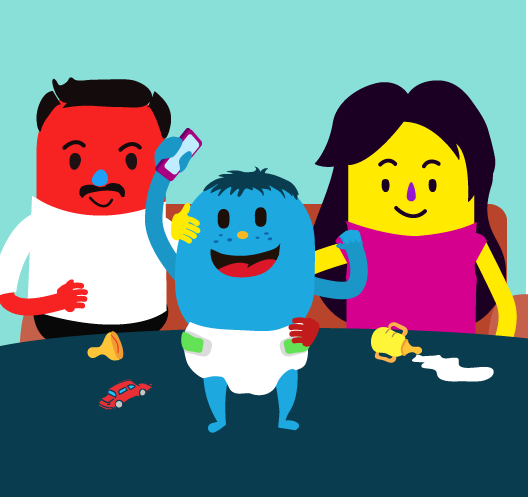
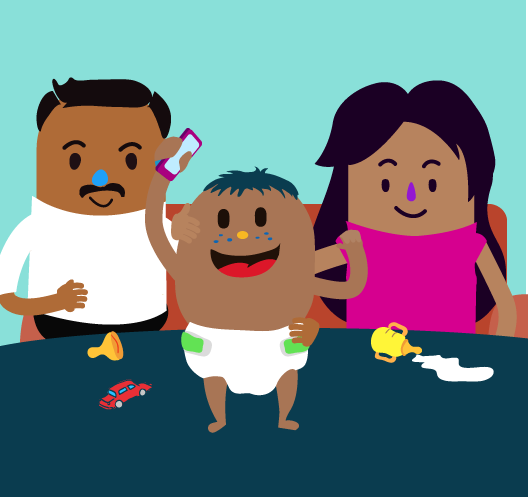
Correo Ajustes Familias RD

diff --git a/familias/css/mod1.css b/familias/css/mod1.css
@@ -254,9 +254,13 @@ margin-top: 0%;
     font-size: 1.15em;
     cursor: pointer;
 }
+#eva_09p2 .answer.img-answer p,.page-9-eva .answer.img-answer p {
+    min-height: 169px !important;
+}
 #eva .answer.img-answer p{
     min-height: 326px;
 }
+
 
 #eva .answer p img{
     display: block;

diff --git a/familias/mod_1/1-05_2_sld.php b/familias/mod_1/1-05_2_sld.php
@@ -285,7 +285,7 @@
                                     <li>Almacenar tus cosas privadas con protección de contraseña o en carpetas ocultas, así nadie más podrá verlos.</li>
                                     <li>Recordar que si alguien publica algo tuyo sin tu autorización, todas las redes sociales tienen la opción de denunciar la publicación y pedir que la retiren.</li>
                                     <!-- <li><a href="/familias/mod_3/3-07_inf.php">Denunciar.</a></li>  -->
-                                    <li><a href="#">Denunciar.</a></li> 
+                                    <li><a href="/familias/mod_3/3-07_inf.php">Denunciar.</a></li> 
                                 </ul>
 
                             </div>
@@ -316,16 +316,16 @@
                                 <p><strong>¿Qué haría una familia e-mentora?</strong><br>
                                 </p>
                                 <ul>
-                                    <li>Tener cuidado. No todo lo que ves en la web es cierto, recordá que muchas personas crean perfiles falsos.</li>
-                                    <li>Cuidar la información personal, no coloqués teléfono, dirección o el nombre del centro de estudios en tus perfiles. Sobre todo, si agregás personas desconocidas.</li>
+                                    <li>Tener cuidado. No todo lo que ves en la web es cierto, recuerda que muchas personas crean perfiles falsos.</li>
+                                    <li>Cuidar la información personal, no coloque teléfono, dirección o el nombre del centro de estudios en tus perfiles. Sobre todo, si agrega personas desconocidas.</li>
                                     <li>Recordar que si nunca has visto a un contacto que agregaste en redes sociales, no puedes tener la seguridad de que es una persona real.</li>
-                                    <li>No enviar información íntima (fotos o videos) a personas desconocidas en la Internet o redes sociales.</li>
-                                    <li>Tener presente que lo que públicas o envías, una vez que sale de tu teléfono, no está más en tu control.</li>
+                                    <li>No enviar información íntima (fotos o videos) a personas desconocidas en Internet o redes sociales.</li>
+                                    <li>Tener presente que lo que publicas o envías, una vez que sale de tu teléfono, no está más en tu control.</li>
                                     <li>Ojo: si decidiste ir a ver en persona al contacto que conociste por Internet.</li>
                                     <ul>
                                         <li>1. Si te pide que se vean en secreto, ¡encender las alertas! </li>
                                         <li>2. Procurar ir en compañía o contarle a alguien de confianza.</li>
-                                        <li>3. Agendar verse en un lugar público donde podás pedir ayuda si pasa algo.</li>
+                                        <li>3. Agendar verse en un lugar publico donde pueda pedir ayuda si pasa algo.</li>
                                     </ul>
                                 </ul>
 
@@ -389,8 +389,8 @@
                                     <ul>
                                         <li>Instala antivirus en tus dispositivos</li>
                                         <li>Aprende a reconocer sitios inseguros.</li>
-                                        <li>No confies en correos extraños, premios sorpresa al ingresar a páginas web.</li>
-                                        <li>Descarga apps solo de sitios oficiales. Asegúrate de que las aplicaciones que instalás son seguras ( Por ejemplo, leer comentarios de otras personas que las instalaron)</li>
+                                        <li>No confíe en correos extraños, premios sorpresa al ingresar a páginas web.</li>
+                                        <li>Descarga apps solo de sitios oficiales. Asegúrate de que las aplicaciones que instala son seguras ( Por ejemplo, leer comentarios de otras personas que las instalaron)</li>
                                     </ul>
                                     <li>Si crees que has sido víctima de una estafa o de un intento de estafa, denunciar ante las autoridades.</li>
                                 </ul>
@@ -452,7 +452,7 @@
                                 </p>
                                 <ul>
                                     <li>Recordar que por ser una persona menor de edad, siempre se tiene el derecho de contar con una protección especial en casos de abuso sexual.</li>
-                                    <li>Cuidar lo que públicas en internet o en redes.</li>
+                                    <li>Cuidar lo que publicas en internet o en redes.</li>
                                     <li>No te sumes: no difundas este tipo de contenidos.</li>
                                     <li>Recordar que las redes sociales no son un concurso de popularidad: Cuida a quien agregas en tus contactos.</li>
                                     <li>Reportar en cualquier red social para que se retire este tipo de material, y también denunciar ante las autoridades.</li>
@@ -518,7 +518,7 @@
                                 <p><strong>¿Qué haría una familia e-mentora?</strong><br></p>
                                 <ul>
                                     <li>Tener presente que todas las personas tenemos derecho a la privacidad de nuestros datos al usar internet y redes sociales. Se cuenta con leyes que nos protegen de los delitos informáticos. ¡Especialmente las niñas, niños y adolescentes!</li>
-                                    <li>Conservar las evidencias y seguir la ruta de denuncia.</li>
+                                    <li>Conservar las evidencias y seguir la <a href="/familias/mod_3/3-07_inf.php">ruta de denuncia.</a></li>
                                 </ul>
 
                             </div>

diff --git a/familias/mod_2/2-06_act.php b/familias/mod_2/2-06_act.php
@@ -53,7 +53,7 @@
                     </div>
                 </div>
             </nav>
-            <p class="intro-header blue" style=" margin-bottom: 0;"><a href="../0-03_menu.php#mod2" class="icovolver hvr-icon">Volver al<br>menú</a>Reconozcamos nuestras emociones en el uso de las TIC</p>
+            <p class="intro-header blue" style=" margin-bottom: 0;"><a href="../0-03_menu.php#mod2" class="icovolver hvr-icon">Volver al<br>menú</a><a href="2-07_inf.php"  class="iconextact hvr-icon">Siguiente</a>Reconozcamos nuestras emociones en el uso de las TIC</p>
             <!-- <section class="container"> -->
             <div class="main">
                 <div id="act_01p1" class="mod act_206_act">
@@ -105,7 +105,7 @@
 
                                 </div>
 
-                                <p>Haz clic  en cada  emoción para conocer lo que cada emoción refleja</p>
+                                <p>Haz clic en cada emoción para conocer lo que refleja</p>
                                 <div class="row">
                                     <div class="col-6 situation col-sm sit-1-t">
                                         <a data-modl="sit-1-t"><span>Tristeza</span></a>
@@ -156,7 +156,7 @@
 
                                 </div>
 
-                                <p>Haz clic  en cada  emoción para conocer lo que cada emoción refleja</p>
+                                <p>Haz clic en cada emoción para conocer lo que refleja</p>
                                 <div class="row">
                                     <div class="col-6 situation col-sm sit-2-t">
                                         <a data-modl="sit-2-t"><span>Tristeza</span></a>
@@ -203,7 +203,7 @@
 
                                 </div>
 
-                                <p>Haz clic  en cada  emoción para conocer lo que cada emoción refleja</p>
+                                <p>Haz clic en cada emoción para conocer lo que refleja</p>
                                 <div class="row">
                                     <div class="col-6 situation col-sm sit-3-t">
                                         <a data-modl="sit-3-t"><span>Tristeza</span></a>
@@ -254,7 +254,7 @@
 
                                 </div>
 
-                                <p>Haz clic  en cada  emoción para conocer lo que cada emoción refleja</p>
+                                <p>Haz clic en cada emoción para conocer lo que refleja</p>
                                 <div class="row">
                                     <div class="col-6 situation col-sm sit-3-t">
                                         <a data-modl="sit-3-t"><span>Tristeza</span></a>

diff --git a/familias/0-06_cert.php b/familias/0-06_cert.php
@@ -136,10 +136,11 @@
                                 
                                 <div class="d-flex justify-content-md-center">
                                     <button type="submit" form="output" id="submit" class="btn-continue mr-2">Descargar certificado</button>
-                                    <a class="share-fb" target="_blank" href="javascript:myPopup('https://www.facebook.com/sharer/sharer.php?u=http%3A//ementores.org')">Compartir en Facebook</a>
+                                    <!-- <a class="share-fb" target="_blank" href="javascript:myPopup('https://www.facebook.com/sharer/sharer.php?u=http%3A//ementores.org')">Compartir en Facebook</a> -->
+                                    <a class="share-fb" target="_blank" onclick=myPopup('https://www.facebook.com/sharer/sharer.php?u=http%3A//ementores.org')>Compartir en Facebook</a>
                                 </div>
                                 <div class="d-flex justify-content-md-center">
-                                    <p class="last-p">¿Algún familiar, amiga o amigo desea hacer el curso? <a target="_blank" href="http://www.ementores.org/familias">EMPEZAR AQUÍ</a></p>
+                                    <p class="last-p">¿Algún familiar, amiga o amigo desea hacer el curso? <a target="_blank" href="/familias">EMPEZAR AQUÍ</a></p>
                                 </div>
 
                                
@@ -147,7 +148,7 @@
                             </div>
 
                         </div>
-
+                        <br>
                     </section>
 
                 </div>

diff --git a/familias/mod_3/3-03_act_02.php b/familias/mod_3/3-03_act_02.php
@@ -45,10 +45,11 @@
                         </div>
                     </div>
                 </nav>
-                <p class="intro-header blue"><a href="../0-03_menu.php#mod3"  class="icovolver hvr-icon">Volver al<br>menú</a>Escuchemos: no siempre tenemos la razón</p>
+                <p class="intro-header blue"><a href="../0-03_menu.php#mod3"  class="icovolver hvr-icon">Volver al<br>menú</a><a href="3-04_info.php"  class="iconextact hvr-icon">Siguiente</a>Escuchemos: no siempre tenemos la razón</p>
                 <section class="container">
                     <div class="main">
-                        <div id="act_01" class="btn-j-center">
+                        <!-- <div id="act_01" class="btn-j-center"> -->
+                        <div id="act_01" class="btn-center">
                             <div class="cont row mod">
                                 <div class="col-12 col-md-5">
                                     <img src="../img/mod3/3-03_act-personaje2_rp.png" alt="personaje 2" class="img-fluid"/>

diff --git a/familias/mod_2/2-07_inf.php b/familias/mod_2/2-07_inf.php
@@ -56,7 +56,7 @@
                         <div id="act_01" class="">
                             <div class="cont row">
                                 <div id="map_container">
-                                    <img usemap="#1-07-inf" id="img-map" src="../img/mod2/2-07_inf.png" class="img-fluid">
+                                    <img usemap="#1-07-inf" id="img-map" src="../img/mod2/2-07_inf-RD_web.png" class="img-fluid">
                                     <map name="1-07-inf">
                                         <!-- <area data-nbr="1" shape='rect' coords='540, 1126, 758, 1198' href='#' />
                                         <area data-nbr="2" shape='rect' coords='540, 1836, 758, 1908' href='#' />
@@ -74,6 +74,7 @@
                         </div>
                         <a href="../0-03_menu.php#mod2" class="back_to_menu d-none">Volver al menú</a>
                     </div>
+                    <br>
                 </section>
                 <?php require '../footer.php'; ?>
             </div>

diff --git a/familias/mod_3/3-03_act_03.php b/familias/mod_3/3-03_act_03.php
@@ -45,10 +45,11 @@
                         </div>
                     </div>
                 </nav>
-                <p class="intro-header blue"><a href="../0-03_menu.php#mod3"  class="icovolver hvr-icon">Volver al<br>menú</a>Escuchemos: no siempre tenemos la razón</p>
+                <p class="intro-header blue"><a href="../0-03_menu.php#mod3"  class="icovolver hvr-icon">Volver al<br>menú</a><a href="3-04_info.php"  class="iconextact hvr-icon">Siguiente</a>Escuchemos: no siempre tenemos la razón</p>
                 <section class="container">
                     <div class="main">
-                        <div id="act_01" class="btn-j-center">
+                        <!-- <div id="act_01" class="btn-j-center"> -->
+                        <div id="act_01" class="btn-center">
                             <div class="cont row mod">
                                 <div class="col-12 col-md-5">
                                     <img src="../img/mod3/3-03_act-personaje3_rp.png" alt="" class="img-fluid"/>

diff --git a/familias/0-03_menu.php b/familias/0-03_menu.php
@@ -260,7 +260,7 @@
                                                 <div class="col-12 col-sm-6 col-md-4 col-lg-3">
                                                     <div class="item-module <?php if ($values2[4]["is_completed"] == 1) : ?>active<?php endif ?>">
                                                         <!-- <img src="img/icon.png" alt=""/> -->
-                                                        <a href="mod_2/2-05_act.php" class="v2-act-5">“Amistad” en redes sociales ¿Aceptaría estas invitaciones?</a><!--<p class=dots-mod>. . .</p>-->
+                                                        <a href="mod_2/2-05_act.php" class="v2-act-5">“Amistad” en redes sociales ¿Aceptarías estas invitaciones?</a><!--<p class=dots-mod>. . .</p>-->
                                                     </div>
                                                 </div>
                                                 <div class="col-12 col-sm-6 col-md-4 col-lg-3">

diff --git a/familias/mod_3/3-03_act_01.php b/familias/mod_3/3-03_act_01.php
@@ -40,10 +40,11 @@
                         </div>
                     </div>
                 </nav>
-                <p class="intro-header blue"><a href="../0-03_menu.php#mod3"  class="icovolver hvr-icon">Volver al<br>menú</a>Escuchemos: no siempre tenemos la razón</p>
+                <p class="intro-header blue"><a href="../0-03_menu.php#mod3"  class="icovolver hvr-icon">Volver al<br>menú</a><a href="3-04_info.php"  class="iconextact hvr-icon">Siguiente</a>Escuchemos: no siempre tenemos la razón</p>
                 <section class="container">
                     <div class="main">
-                        <div id="act_01" class="btn-j-center">
+                        <!-- <div id="act_01" class="btn-j-center"> -->
+                        <div id="act_01" class="btn-center">
                             <div class="mod">
                                 <div class="row">
                                     <div class="col-12 col-md-5">

diff --git a/familias/mod_2/2-10_eva.php b/familias/mod_2/2-10_eva.php
@@ -203,7 +203,7 @@
                                     <h3 class="intro-paragrah text-center">No has logrado superar con éxito este reto. Inténtalo de nuevo. <br>Así podrás avanzar al siguiente capítulo, en el cual aprenderás sobre el tema de la prevención.</h3>
                                 </div>
                                 <div class="col-6 text-center">
-                                    <a href="../0-03_menu#mod2.php" class="btn-see-eva">Repasar contenidos</a>
+                                    <a href="../0-03_menu.php#mod2.php" class="btn-see-eva">Repasar contenidos</a>
                                 </div>
                                 <div class="col-6 text-center">
                                     <a href="2-10_eva.php" class="btn-retry-eva">Intentar otra vez</a>

diff --git a/familias/mod_2/2-02a_sli.php b/familias/mod_2/2-02a_sli.php
@@ -232,7 +232,7 @@
                             <div class="container">
                             <div class="row align-items-center justify-content-md-center">
                                 <div class="col-12 col-sm-4">
-                                    <p class="intro-label"><strong>Recuerde que la Crianza respetuosa da permisos, y tiene sus límites.</strong></p>
+                                    <p class="intro-label"><strong>Recuerda que la Crianza respetuosa da permisos, y tiene sus límites.</strong></p>
                                     <p class="intro-label"><strong>Además, promueve construir reglas en familia y solucionar problemas con afecto y comprensión.</strong></p>
                                 </div>
                                 <div class="col-12 col-sm-4">

diff --git a/familias/mod_3/3-03_act_04.php b/familias/mod_3/3-03_act_04.php
@@ -83,13 +83,14 @@
 
                 </nav>
 
-                <p class="intro-header blue"><a href="../0-03_menu.php#mod3"  class="icovolver hvr-icon">Volver al<br>menú</a>Escuchemos: no siempre tenemos la razón</p>
+                <p class="intro-header blue"><a href="../0-03_menu.php#mod3"  class="icovolver hvr-icon">Volver al<br>menú</a><a href="3-04_info.php"  class="iconextact hvr-icon">Siguiente</a>Escuchemos: no siempre tenemos la razón</p>
 
                 <section class="container">
 
                     <div class="main">
 
-                        <div id="act_01" class="btn-j-center">
+                        <!-- <div id="act_01" class="btn-j-center"> -->
+                        <div id="act_01" class="btn-center">
 
                             <div class="cont row mod">
 
